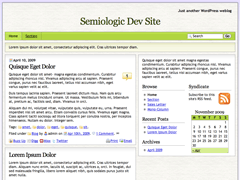
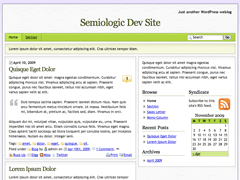
update screenshots + font tweak
git-svn-id: file:///Users/michaelkoepke/svn/semiologic@3317 6c9c31c4-cb3d-4424-af3d-876279169c7e

diff --git a/themes/sem-reloaded/trunk/style.css b/themes/sem-reloaded/trunk/style.css
@@ -555,7 +555,7 @@ h2 a {
 }
 
 div.entry_date,
-.post_list_date,
+h3.post_list_date,
 .comment_date,
 .pings_date {
 	font-weight: bold;
